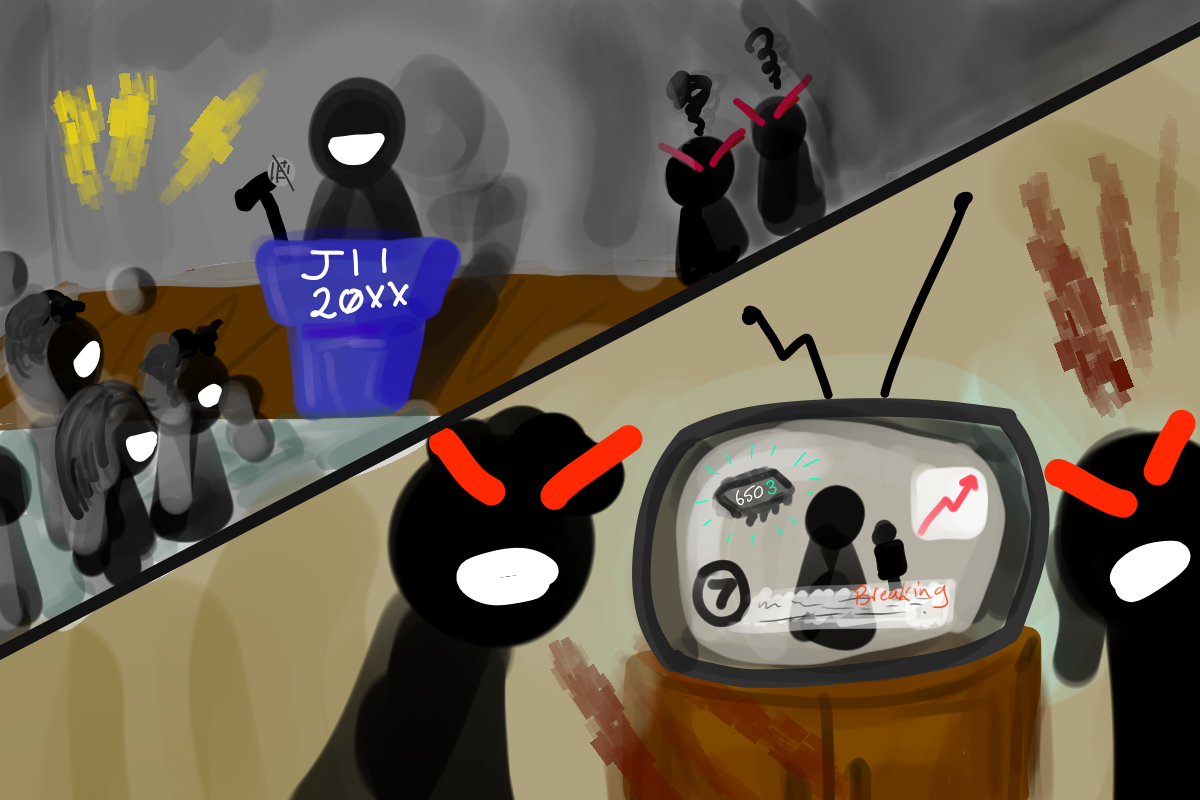
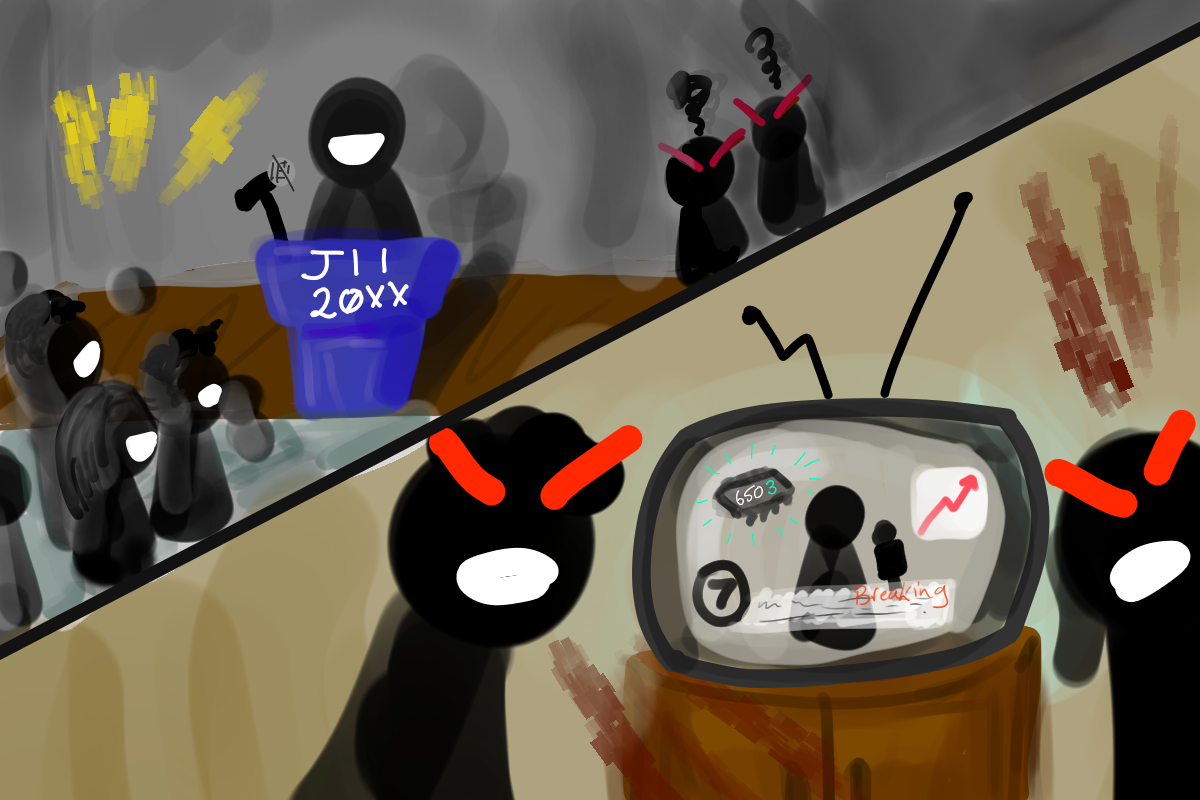
Update intro images

Changed region(s): [[0.0, 0.4375, 0.185, 0.75], [0.0925, 0.3438, 0.1233, 0.375]]

diff --git a/src/OpeningScene.h b/src/OpeningScene.h
@@ -87,8 +87,8 @@ public:
           bgs {
               LoadTexture("resources/bg_intro_1.png"),
               LoadTexture("resources/bg_intro_2.png"),
-              LoadTexture("resources/bg_intro_2.png"), // 3
-              LoadTexture("resources/bg_intro_2.png"), // 4
+              LoadTexture("resources/bg_intro_3.png"),
+              LoadTexture("resources/bg_intro_4.png"),
           }
     {
     }
